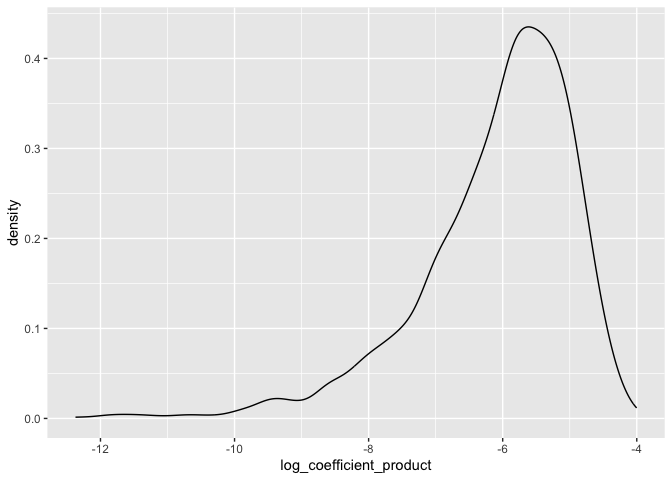
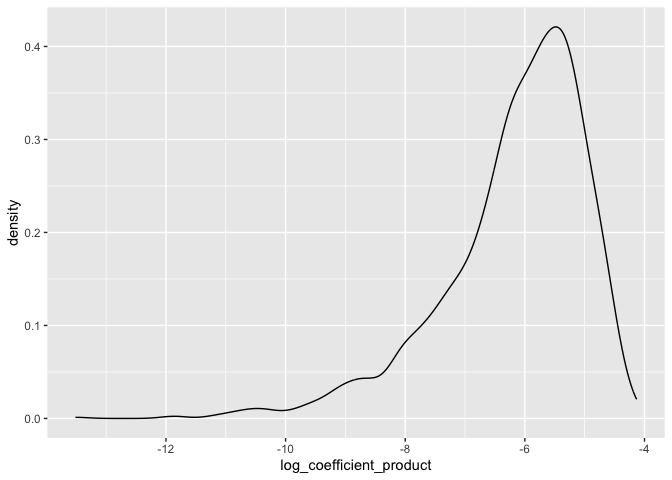
added risidual plot

diff --git a/p8105_hw6_yd2739.md b/p8105_hw6_yd2739.md
@@ -162,7 +162,7 @@ p2_result|>
   geom_density()
 ```
 
-    ## Warning: Removed 3359 rows containing non-finite values (`stat_density()`).
+    ## Warning: Removed 3400 rows containing non-finite values (`stat_density()`).
 
 ![](p8105_hw6_yd2739_files/figure-gfm/unnamed-chunk-9-1.png)<!-- -->
 
@@ -173,7 +173,7 @@ p2_result|>
 ```
 
     ##      2.5%     97.5% 
-    ## -9.104394 -4.553266
+    ## -9.174052 -4.586737
 
 We could see that the coefficient product’s log result is left skewed.
 There are also lots of Na in the dataset caused by negative product of
@@ -195,7 +195,7 @@ p2_result|>
 ```
 
     ##      2.5%     97.5% 
-    ## 0.8888305 0.9403515
+    ## 0.8892099 0.9408436
 
 The r^2 is less skewed and is approximately normal. We could see it is
 still slightly left skewed. The 2.5% and 97.5% quantile of coefficient
@@ -293,6 +293,20 @@ prediction_result = birthweight_df|>
 ```
 
 ``` r
+prediction_result|>
+  ggplot(
+    aes(x=pred, y=resid)
+  )+
+  geom_point()+ 
+  geom_hline(yintercept = 0, linetype = "dashed", color = "red")
+```
+
+![](p8105_hw6_yd2739_files/figure-gfm/unnamed-chunk-16-1.png)<!-- -->
+
+We do see that ridisual scatter around 0 evenly.
+
+``` r
+library(purrr)
 cv_df = 
   crossv_mc(birthweight_df, 100)
   
@@ -328,7 +342,7 @@ cv_df |>
   ggplot(aes(x = model, y = rmse)) + geom_violin()
 ```
 
-![](p8105_hw6_yd2739_files/figure-gfm/unnamed-chunk-18-1.png)<!-- -->
+![](p8105_hw6_yd2739_files/figure-gfm/unnamed-chunk-19-1.png)<!-- -->
 
 We could see that the model with interaction have the lowest RMSE, which
 means it is the model with best predictivity.
